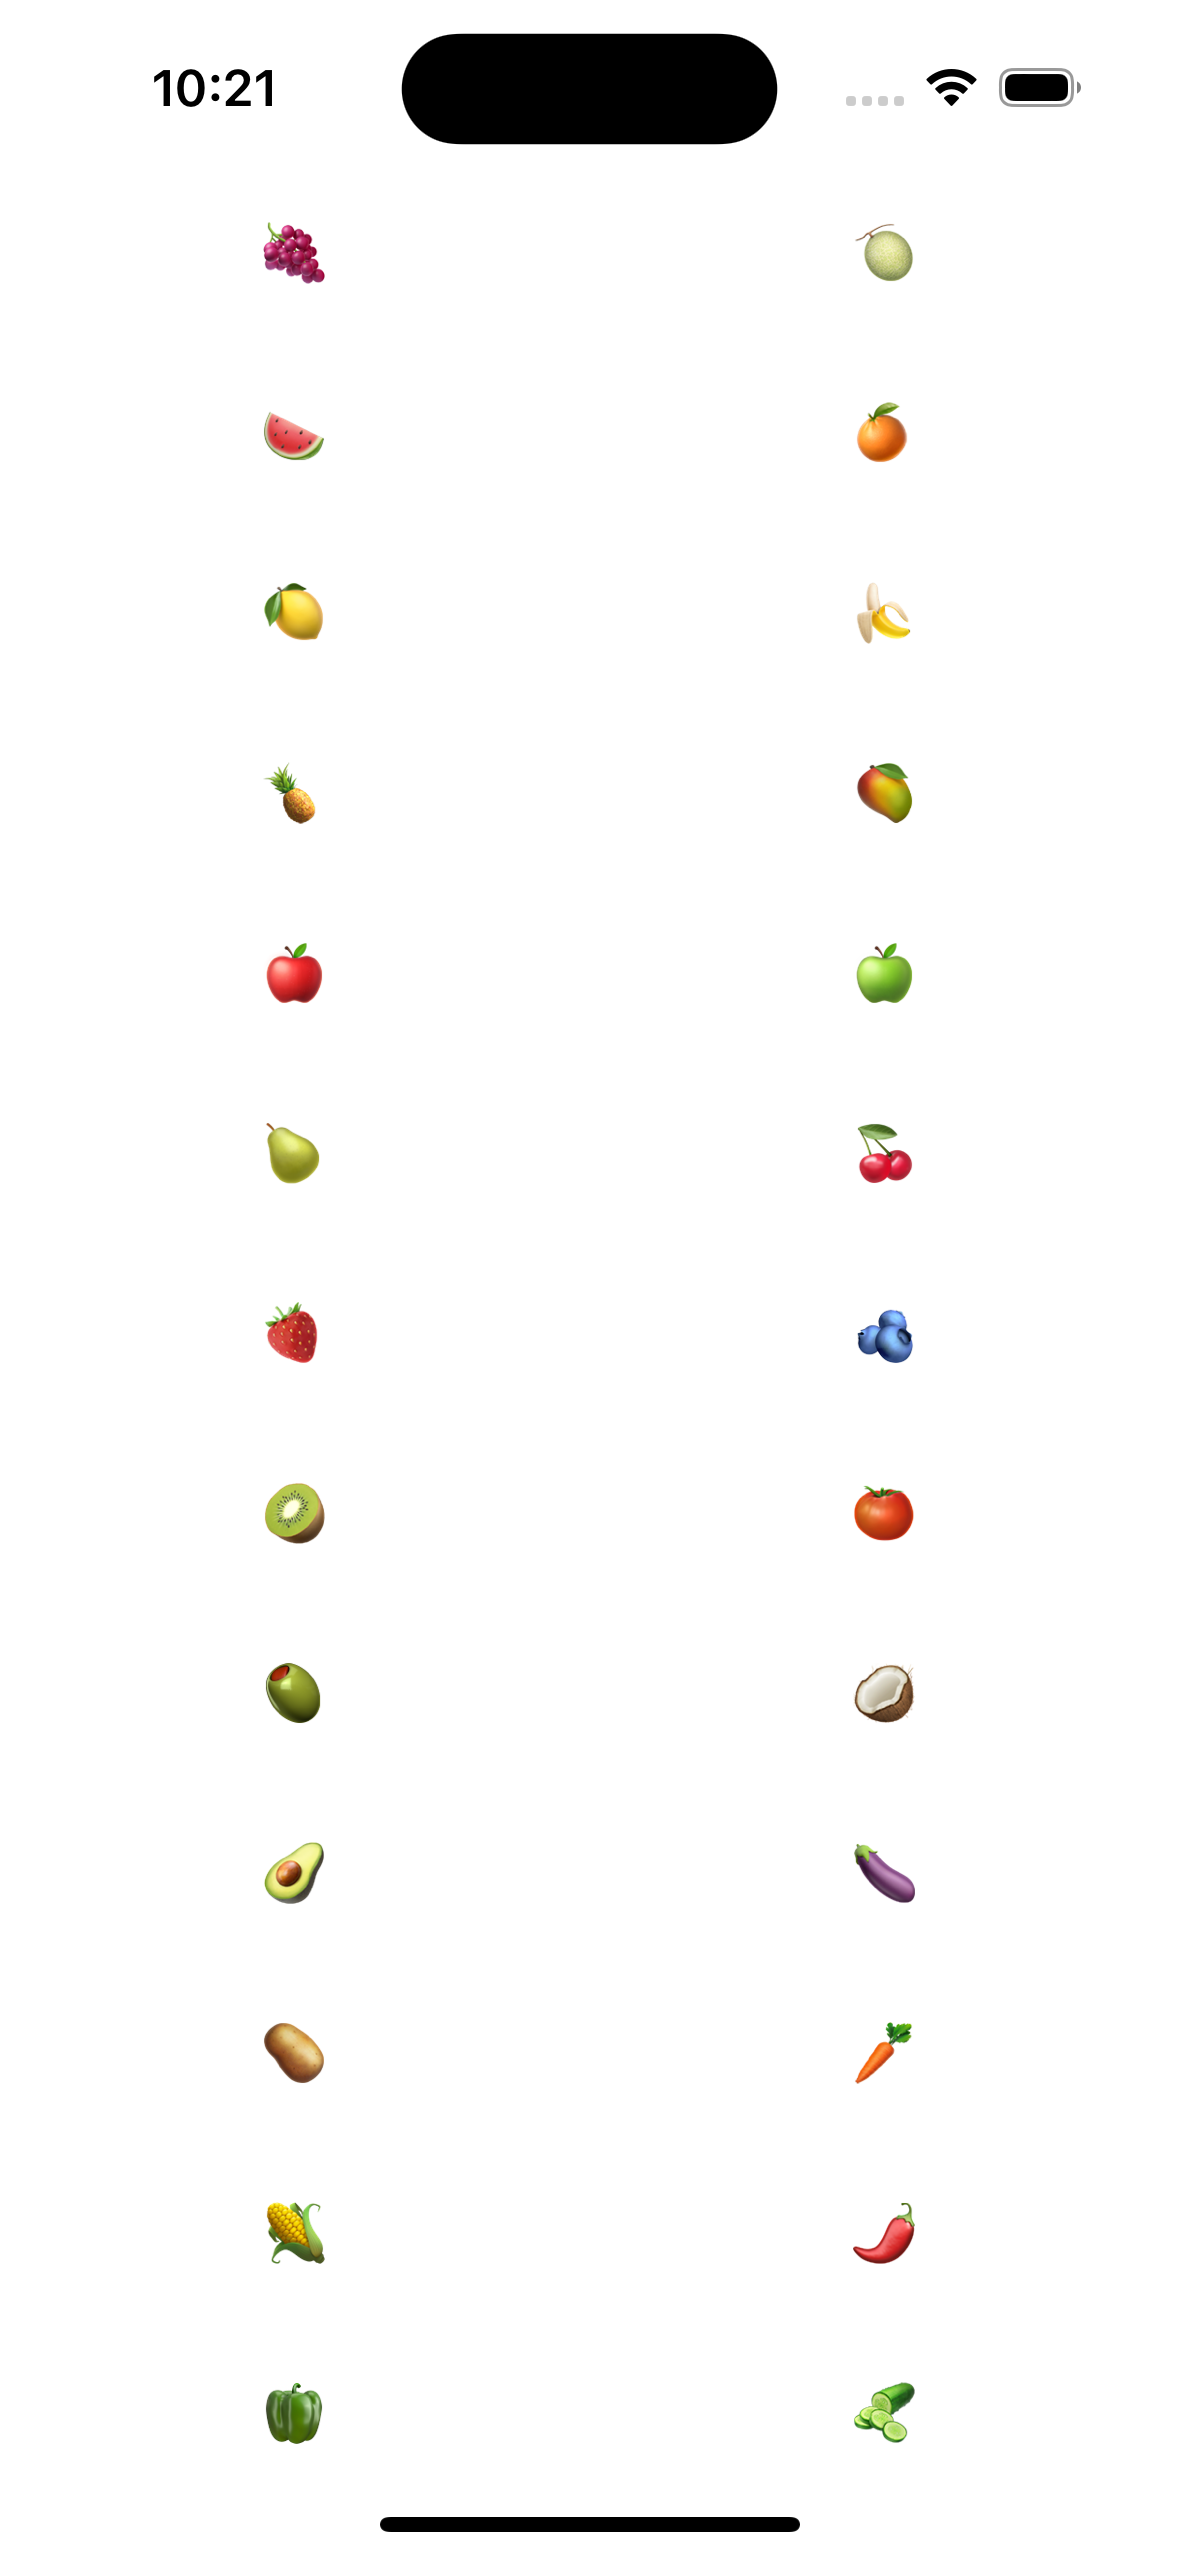
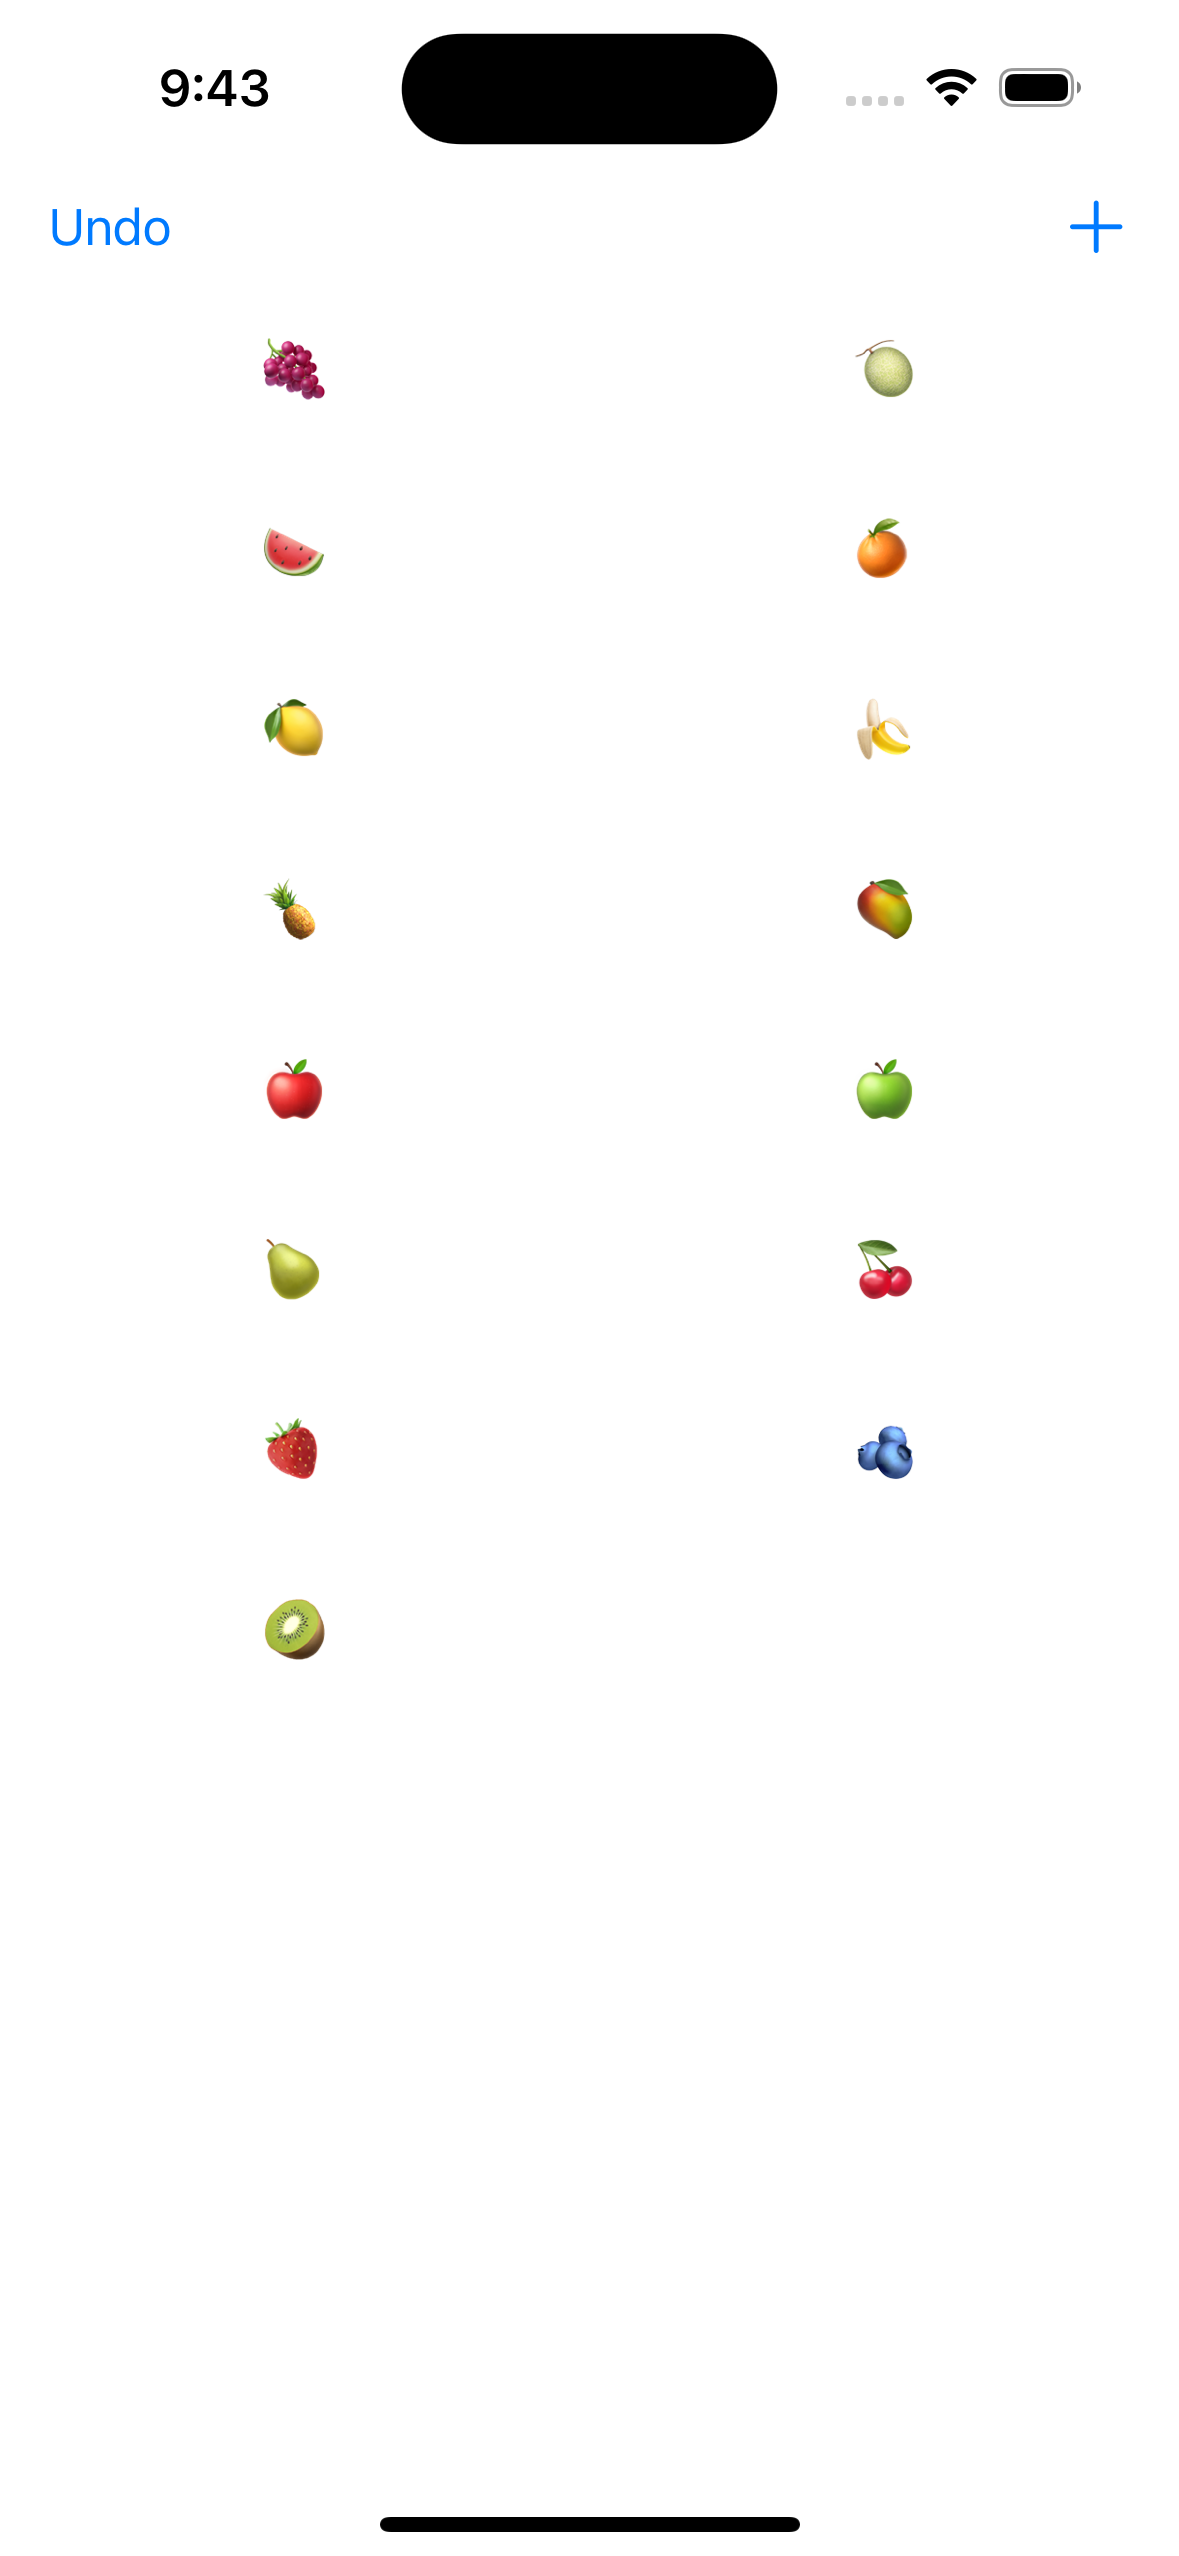
Added animated deletion and addition of collection items

diff --git a/EmojiMixer/ViewController.swift b/EmojiMixer/ViewController.swift
@@ -9,7 +9,9 @@ import UIKit
 
 final class ViewController: UIViewController {
 
-    let emojiArray = [ "🍇", "🍈", "🍉", "🍊", "🍋", "🍌", "🍍", "🥭", "🍎", "🍏", "🍐", "🍒", "🍓", "🫐", "🥝", "🍅", "🫒", "🥥", "🥑", "🍆", "🥔", "🥕", "🌽", "🌶", "🫑", "🥒", "🥬", "🥦", "🧄", "🧅", "🍄"]
+    private let emojies = [ "🍇", "🍈", "🍉", "🍊", "🍋", "🍌", "🍍", "🥭", "🍎", "🍏", "🍐", "🍒", "🍓", "🫐", "🥝", "🍅", "🫒", "🥥", "🥑", "🍆", "🥔", "🥕", "🌽", "🌶", "🫑", "🥒", "🥬", "🥦", "🧄", "🧅", "🍄"]
+
+    private var visibleEmojies = [String]()
 
     private lazy var collectionView: UICollectionView = {
         let view = UICollectionView(frame: .zero, collectionViewLayout: UICollectionViewFlowLayout())
@@ -23,15 +25,62 @@ final class ViewController: UIViewController {
 
     override func viewDidLoad() {
         super.viewDidLoad()
+        setupNavigationController()
         setupConstraints()
+    }
+
+    private func setupNavigationController() {
+        let leftButton = UIBarButtonItem(barButtonSystemItem: .undo,
+                                         target: self,
+                                         action: #selector(removeLastEmoji))
+        let rightButton = UIBarButtonItem(barButtonSystemItem: .add,
+                                          target: self,
+                                          action: #selector(addNextEmoji))
+        navigationItem.rightBarButtonItem = rightButton
+        navigationItem.leftBarButtonItem = leftButton
+    }
+
+    @objc private func removeLastEmoji() {
+//        guard !visibleEmojies.isEmpty else { return }
+//        let indexPath = IndexPath(row: visibleEmojies.count - 1, section: 0)
+//        let emoji = visibleEmojies.removeLast()
+//        emojies.insert(emoji, at: 0)
+//        collectionView.performBatchUpdates {
+//            collectionView.deleteItems(at: [indexPath])
+//        }
+        guard visibleEmojies.count > 0 else { return }
+        let index = visibleEmojies.count - 1
+        let indexPath = IndexPath(row: index, section: 0)
+        visibleEmojies.remove(at: index)
+        collectionView.performBatchUpdates {
+            collectionView.deleteItems(at: [indexPath])
+        }
+    }
+
+    @objc private func addNextEmoji() {
+//        guard !emojies.isEmpty else { return }
+//        let emoji = emojies.removeFirst()
+//        visibleEmojies.append(emoji)
+//        let indexPath = IndexPath(row: visibleEmojies.count - 1, section: 0)
+//        collectionView.performBatchUpdates {
+//            collectionView.insertItems(at: [indexPath])
+//        }
+        guard visibleEmojies.count < emojies.count else { return }
+        let index = visibleEmojies.count
+        let indexPath = IndexPath(row: index, section: 0)
+        let emoji = emojies[index]
+        visibleEmojies.append(emoji)
+        collectionView.performBatchUpdates {
+            collectionView.insertItems(at: [indexPath])
+        }
     }
 
     private func setupConstraints() {
         view.addSubview(collectionView)
         NSLayoutConstraint.activate([
-            collectionView.topAnchor.constraint(equalTo: view.safeAreaLayoutGuide.topAnchor),
+            collectionView.topAnchor.constraint(equalTo: view.topAnchor),
             collectionView.leadingAnchor.constraint(equalTo: view.leadingAnchor),
-            collectionView.bottomAnchor.constraint(equalTo: view.safeAreaLayoutGuide.bottomAnchor),
+            collectionView.bottomAnchor.constraint(equalTo: view.bottomAnchor),
             collectionView.trailingAnchor.constraint(equalTo: view.trailingAnchor)
         ])
     }
@@ -76,14 +125,14 @@ extension ViewController: UICollectionViewDelegateFlowLayout {
 extension ViewController: UICollectionViewDataSource {
 
     func collectionView(_ collectionView: UICollectionView, numberOfItemsInSection section: Int) -> Int {
-        emojiArray.count
+        visibleEmojies.count
     }
 
     func collectionView(_ collectionView: UICollectionView, cellForItemAt indexPath: IndexPath) -> UICollectionViewCell {
         guard let cell = collectionView.dequeueReusableCell(withReuseIdentifier: CollectionViewCell.identifier, for: indexPath) as? CollectionViewCell else {
             return UICollectionViewCell()
         }
-        cell.setTitleLabel(text: emojiArray[indexPath.row])
+        cell.setTitleLabel(text: visibleEmojies[indexPath.row])
         return cell
     }
 }

diff --git a/EmojiMixer/SceneDelegate.swift b/EmojiMixer/SceneDelegate.swift
@@ -11,42 +11,13 @@ class SceneDelegate: UIResponder, UIWindowSceneDelegate {
 
     var window: UIWindow?
 
-
     func scene(_ scene: UIScene, willConnectTo session: UISceneSession, options connectionOptions: UIScene.ConnectionOptions) {
-        // Use this method to optionally configure and attach the UIWindow `window` to the provided UIWindowScene `scene`.
-        // If using a storyboard, the `window` property will automatically be initialized and attached to the scene.
-        // This delegate does not imply the connecting scene or session are new (see `application:configurationForConnectingSceneSession` instead).
-        guard let _ = (scene as? UIWindowScene) else { return }
+        guard let scene = (scene as? UIWindowScene) else { return }
+        let window = UIWindow(windowScene: scene)
+        let viewController = ViewController()
+        let navigationController = UINavigationController(rootViewController: viewController)
+        window.rootViewController = navigationController
+        self.window = window
+        window.makeKeyAndVisible()
     }
-
-    func sceneDidDisconnect(_ scene: UIScene) {
-        // Called as the scene is being released by the system.
-        // This occurs shortly after the scene enters the background, or when its session is discarded.
-        // Release any resources associated with this scene that can be re-created the next time the scene connects.
-        // The scene may re-connect later, as its session was not necessarily discarded (see `application:didDiscardSceneSessions` instead).
-    }
-
-    func sceneDidBecomeActive(_ scene: UIScene) {
-        // Called when the scene has moved from an inactive state to an active state.
-        // Use this method to restart any tasks that were paused (or not yet started) when the scene was inactive.
-    }
-
-    func sceneWillResignActive(_ scene: UIScene) {
-        // Called when the scene will move from an active state to an inactive state.
-        // This may occur due to temporary interruptions (ex. an incoming phone call).
-    }
-
-    func sceneWillEnterForeground(_ scene: UIScene) {
-        // Called as the scene transitions from the background to the foreground.
-        // Use this method to undo the changes made on entering the background.
-    }
-
-    func sceneDidEnterBackground(_ scene: UIScene) {
-        // Called as the scene transitions from the foreground to the background.
-        // Use this method to save data, release shared resources, and store enough scene-specific state information
-        // to restore the scene back to its current state.
-    }
-
-
 }
-

diff --git a/EmojiMixer/AppDelegate.swift b/EmojiMixer/AppDelegate.swift
@@ -10,8 +10,6 @@ import UIKit
 @main
 class AppDelegate: UIResponder, UIApplicationDelegate {
 
-
-
     func application(_ application: UIApplication, didFinishLaunchingWithOptions launchOptions: [UIApplication.LaunchOptionsKey: Any]?) -> Bool {
         // Override point for customization after application launch.
         return true
@@ -24,13 +22,4 @@ class AppDelegate: UIResponder, UIApplicationDelegate {
         // Use this method to select a configuration to create the new scene with.
         return UISceneConfiguration(name: "Default Configuration", sessionRole: connectingSceneSession.role)
     }
-
-    func application(_ application: UIApplication, didDiscardSceneSessions sceneSessions: Set<UISceneSession>) {
-        // Called when the user discards a scene session.
-        // If any sessions were discarded while the application was not running, this will be called shortly after application:didFinishLaunchingWithOptions.
-        // Use this method to release any resources that were specific to the discarded scenes, as they will not return.
-    }
-
-
 }
-
